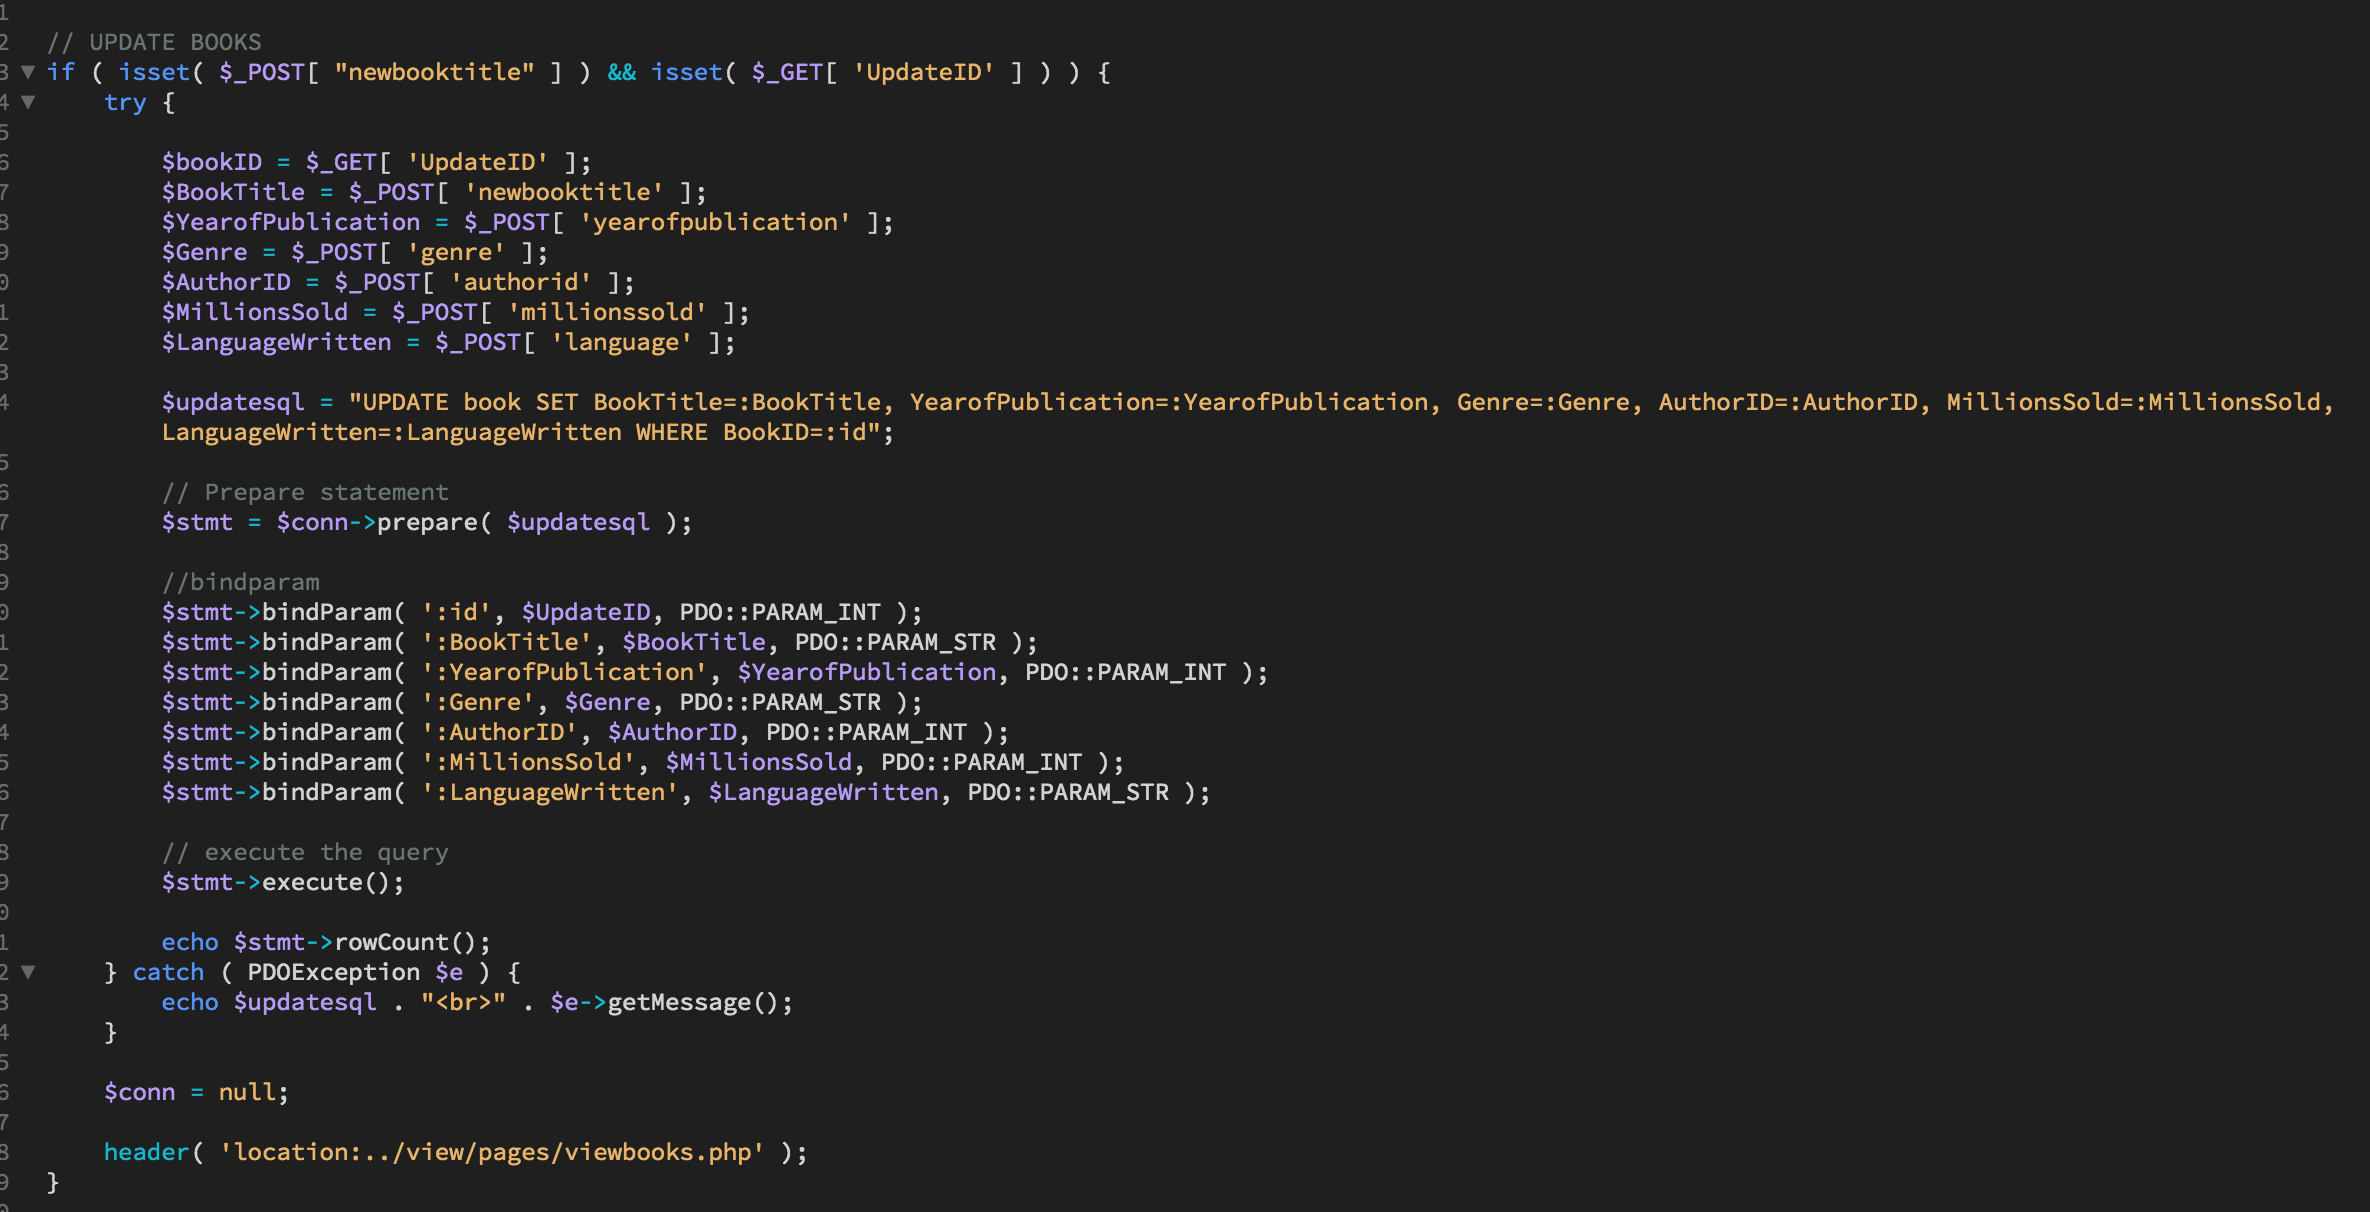
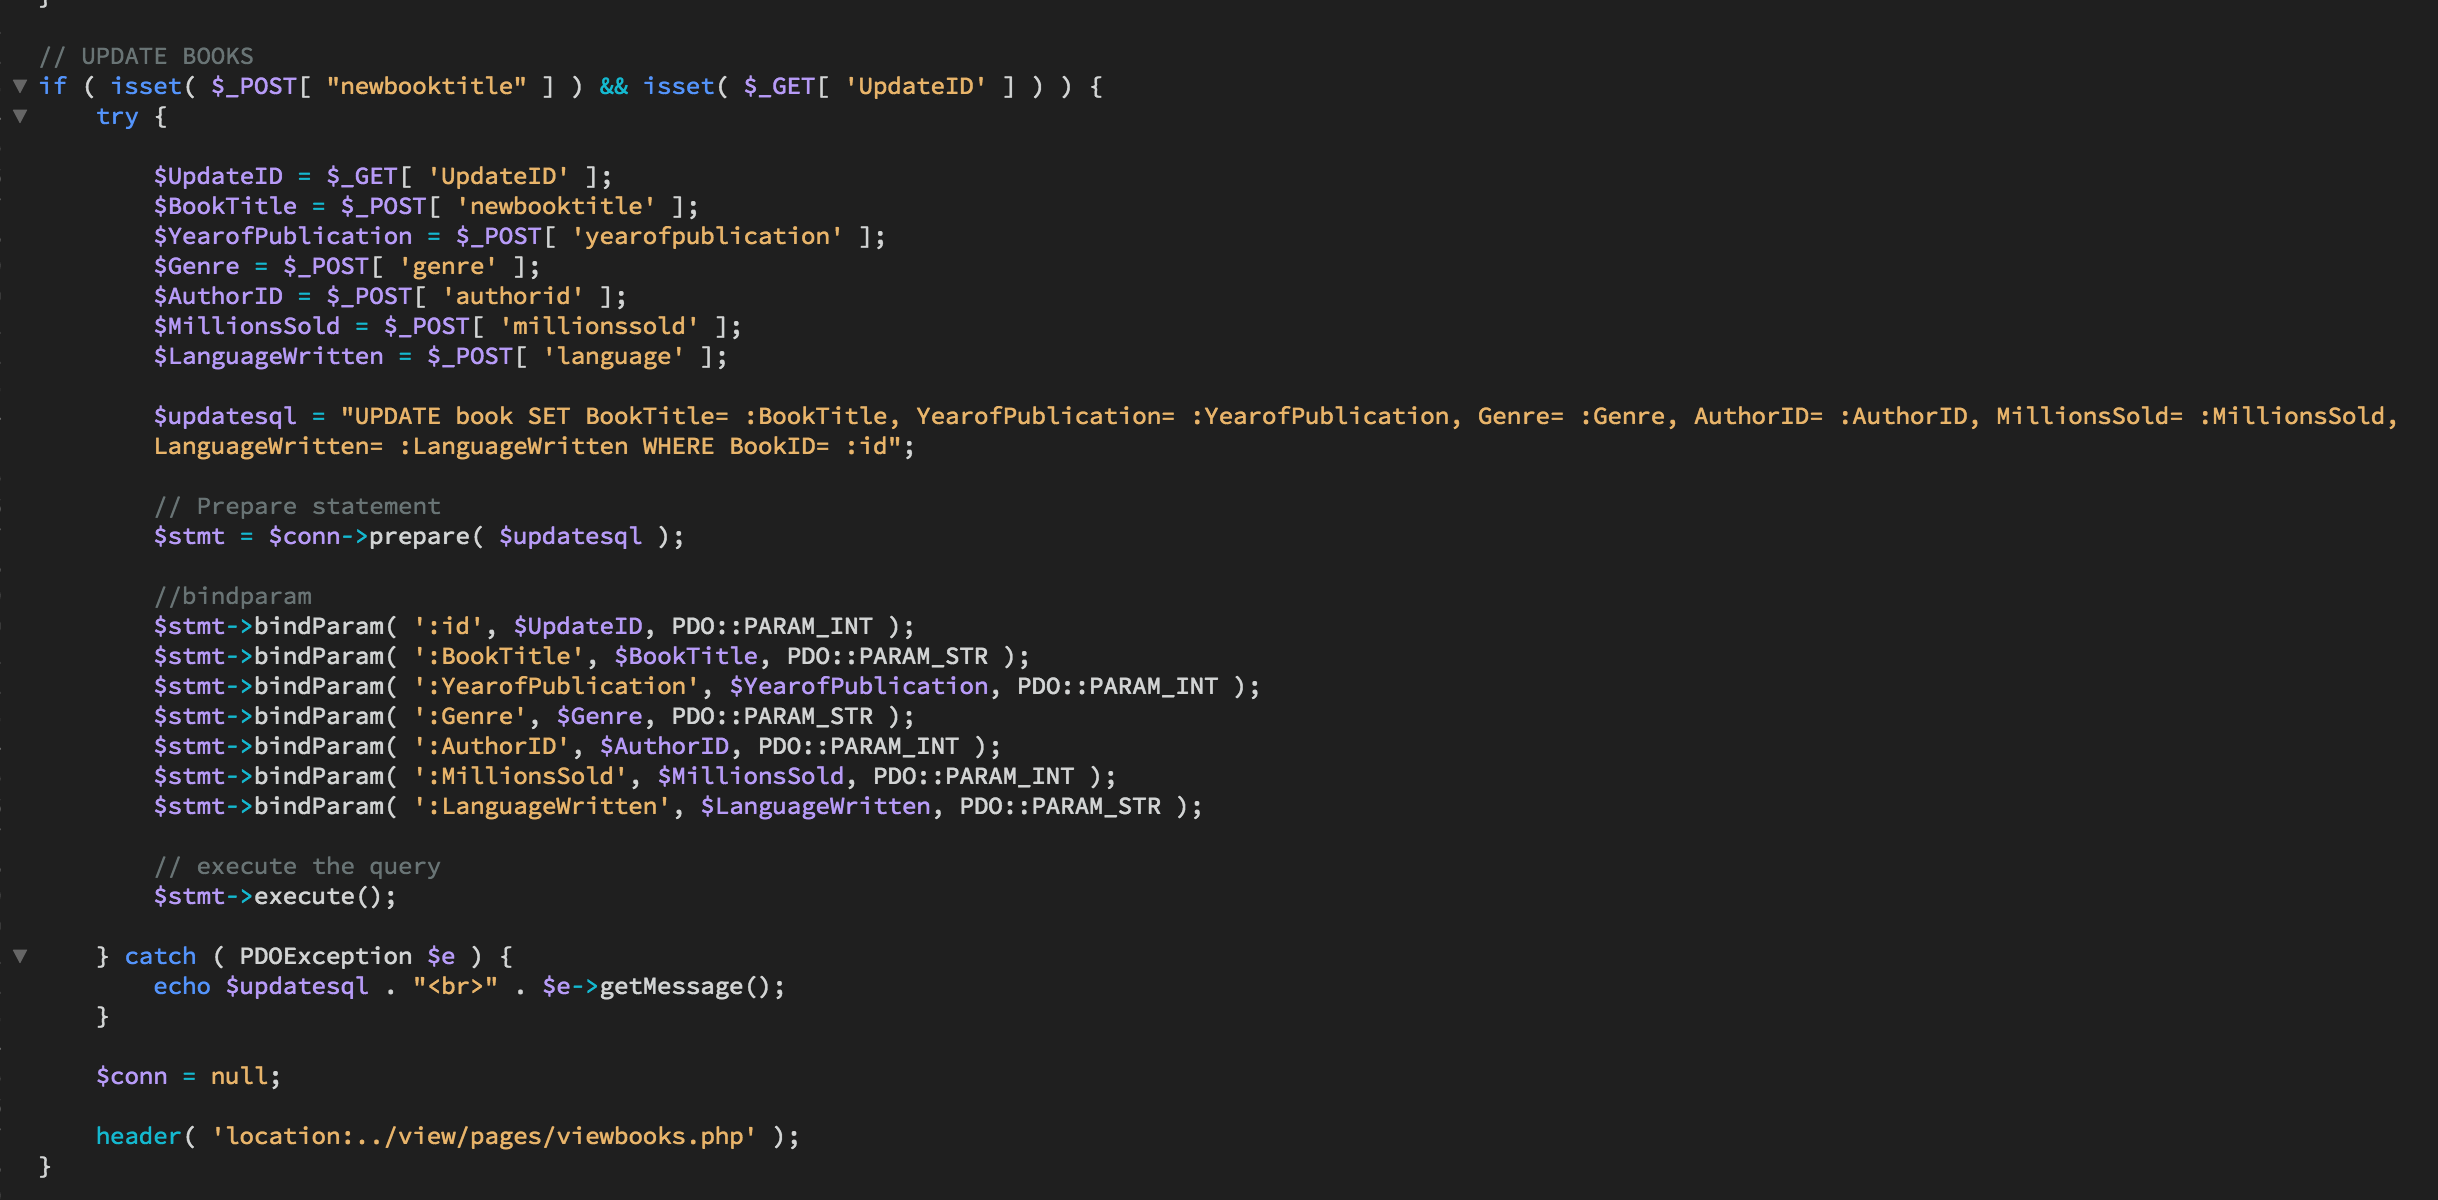
fixed update process, added bookcover images, deleted unwanted files

diff --git a/view/pages/addbooks.php b/view/pages/addbooks.php
@@ -1,39 +1,36 @@
 <?php include('navigationbar.php'); include('header.php');?>
 <!doctype html>
 <head>
-<style>
-.red{
-    color:red;
-    }
-.form-area
-{
-    background-color: #FAFAFA;
-	padding: 10px 40px 60px;
-	margin: 10px 0px 60px;
-	border: 1px solid GREY;
-	}
-  </style>
-<script> 
-	
-	$(document).ready(function(){ 
-    $('#characterLeft').text('140 characters left');
-    $('#message').keydown(function () {
-        var max = 140;
-        var len = $(this).val().length;
-        if (len >= max) {
-            $('#characterLeft').text('You have reached the limit');
-            $('#characterLeft').addClass('red');
-            $('#btnSubmit').addClass('disabled');            
-        } 
-        else {
-            var ch = max - len;
-            $('#characterLeft').text(ch + ' characters left');
-            $('#btnSubmit').removeClass('disabled');
-            $('#characterLeft').removeClass('red');            
-        }
-    });    
-});
-
+	<style>
+		.red {
+			color: red;
+		}
+		
+		.form-area {
+			background-color: #FAFAFA;
+			padding: 10px 40px 60px;
+			margin: 10px 0px 60px;
+			border: 1px solid GREY;
+		}
+	</style>
+	<script>
+		$( document ).ready( function () {
+			$( '#characterLeft' ).text( '140 characters left' );
+			$( '#message' ).keydown( function () {
+				var max = 140;
+				var len = $( this ).val().length;
+				if ( len >= max ) {
+					$( '#characterLeft' ).text( 'You have reached the limit' );
+					$( '#characterLeft' ).addClass( 'red' );
+					$( '#btnSubmit' ).addClass( 'disabled' );
+				} else {
+					var ch = max - len;
+					$( '#characterLeft' ).text( ch + ' characters left' );
+					$( '#btnSubmit' ).removeClass( 'disabled' );
+					$( '#characterLeft' ).removeClass( 'red' );
+				}
+			} );
+		} );
 	</script>
 </head>
 <body>
@@ -43,54 +40,52 @@
 			<p>Add New Books.</p>
 		</div>
 	</div>
-<div class="container1" align="center"; width="20%;">  
-        <form role="form" width="50%;" action="../../control/managebooks_process.php" method="post">
-        <br style="clear:both">
-                    <h3 style="margin-bottom: 25px; text-align: center;">Add book details.</h3>
-    				<div class="form-group">
-						<input type="text" class="form-control" id="bookTitle" name="booktitle" placeholder="Book Title" required>
-					</div>
-					<div class="form-group">
-					<div class="form-group">
-						<input type="text" class="form-control" id="language" name="language" placeholder="Language" required>
-						</div>			<input type="text" class="form-control" id="originalTitle" name="originaltitle" placeholder="Original Title" required>
-					</div>
-								<div class="form-group">
-						<input type="text" class="form-control" id="authorid" name="authorid" placeholder="AuthorID" required>
-					</div>
-					<div class="form-group">
-						<input type="text" class="form-control" id="genre" name="genre" placeholder="Genre" required>
-					</div>
-					<div class="form-group">
-						<input type="text" class="form-control" id="yearOfpublication" name="yearofpublication" placeholder="Year Of Publication" required>
-					</div>
-					<div class="form-group">
-						<input type="text" class="form-control" id="language" name="language" placeholder="Language" required>
-					</div>
-					<div class="form-group">
-						<input type="text" class="form-control" id="millionsold" name="millionssold" placeholder="Millions Sold" required>
-					</div>
-			<!--<div class="form-group">
-			<div class="text-center">
-					<img src="<?php echo $image ?>" class="avatar img-thumbnail" alt="avatar">
+	<div class="container1" align="center" ; width="20%;">
+		<form role="form" width="50%;" action="../../control/managebooks_process.php" method="post">
+			<br style="clear:both">
+			<h3 style="margin-bottom: 25px; text-align: center;">Add book details.</h3>
+			<div class="form-group">
+				<input type="text" class="form-control" id="bookTitle" name="booktitle" placeholder="Book Title" required>
+			</div>
+			<div class="form-group">
+				<div class="form-group">
+					<input type="text" class="form-control" id="language" name="language" placeholder="Language" required>
+				</div> <input type="text" class="form-control" id="originalTitle" name="originaltitle" placeholder="Original Title" required>
+			</div>
+			<div class="form-group">
+				<input type="text" class="form-control" id="authorid" name="authorid" placeholder="AuthorID" required>
+			</div>
+			<div class="form-group">
+				<input type="text" class="form-control" id="genre" name="genre" placeholder="Genre" required>
+			</div>
+			<div class="form-group">
+				<input type="text" class="form-control" id="yearOfpublication" name="yearofpublication" placeholder="Year Of Publication" required>
+			</div>
+			<div class="form-group">
+				<input type="text" class="form-control" id="language" name="language" placeholder="Language" required>
+			</div>
+			<div class="form-group">
+				<input type="text" class="form-control" id="millionsold" name="millionssold" placeholder="Millions Sold" required>
+			</div>
+			<div class="form-group">
+				<div class="text-center">
+					<img src="<?php echo $image ?>" class="avatar img-thumbnail" alt="cover">
 					<h6>Upload a photo...</h6>
-					<form id="imageInput" change="displayImageError()" action="../../control/upload_file.php" method="POST" enctype="multipart/form-data">
+					
 						<input type="file" name="image" id="fileToUpload" size="50" class="text-center center-block well well-sm">
 
-						<button type="submit" class="btn btn-primary" id="imageSubmitButton">Submit Image</button>
-		<div class="form-group					</form>
-					<div id="imageAlert" class="alert alert-danger" style="display: none;"></div>
-				</div>-->
+					<div id=" imageAlert " class="alert alert-danger " style="display: none; "></div>
+				</div>
 			<div class="form-group">
-        <input type="submit" id="submit" name="submit" class="btn btn-primary">
+        <input type="submit" id="submit" name="submit" class="btn btn-primary ">
+				</div>
         </form>
-    </div>
+    
 </div>
 </div>
-<footer class="container-fluid text-center">
+<footer class="container-fluid text-center ">
 <?php include('footer.php');?>
 </footer>
 
 </body>
 </html>
-

diff --git a/view/pages/updatebooks.php b/view/pages/updatebooks.php
@@ -1,12 +1,13 @@
-<?php include('navigationbar.php');
+<?php
+include( 'navigationbar.php' );
 
-include('../../model/dbconnection.php');
+include( '../../model/dbconnection.php' );
 
 $selectsql = "SELECT * FROM book WHERE BookID = :id";
 
-$stmt = $conn->prepare($selectsql);
+$stmt = $conn->prepare( $selectsql );
 
-$stmt->bindParam(':id', $_GET['UpdateID'], PDO::PARAM_INT);
+$stmt->bindParam( ':id', $_GET[ 'UpdateID' ], PDO::PARAM_INT );
 
 $stmt->execute();
 
@@ -42,34 +43,38 @@ $row = $stmt->fetch();
         <span><strong>Go Back</strong></span>            
     </a>
 
+
 	<div class="container1" align="center" ; width="20%;">
-		<form role="form" width="50%;" method="post" action="../../control/managebooks_process.php?UpdateID=<?php echo $row['BookID']; ?>">
+		<!--<form role="form" width="50%;" method="post" action="../../control/managebooks_process.php?UpdateID=<?php //echo $row['BookID']; ?>">-->
+
+
+		<form role="form" width="50%" method="post" action="../../control/managebooks_process.php?UpdateID=<?php echo $_GET['UpdateID']; ?>">
 			<br style="clear:both">
 			<h3 style="margin-bottom: 25px; text-align: center;">Update book details.</h3>
 			<div class="form-group">
-				<input type="text" class="form-control" id="bookTitle" name="newbooktitle" placeholder="Book Title" value= "<?php echo $row['BookTitle']; ?>" required>
+				<input type="text" class="form-control" id="bookTitle" name="newbooktitle" placeholder="Book Title" value="<?php echo $row['BookTitle']; ?>" required>
 			</div>
 			<div class="form-group">
-				<input type="text" class="form-control" id="authorid" name="authorid" placeholder="AuthorID" value= "<?php echo $row['AuthorID']; ?>" required>
+				<input type="text" class="form-control" id="authorid" name="authorid" placeholder="AuthorID" value="<?php echo $row['AuthorID']; ?>" required>
 			</div>
 			<div class="form-group">
-				<input type="text" class="form-control" id="genre" name="genre" placeholder="Genre" value= "<?php echo $row['Genre']; ?>" required>
+				<input type="text" class="form-control" id="genre" name="genre" placeholder="Genre" value="<?php echo $row['Genre']; ?>" required>
 			</div>
 			<div class="form-group">
-				<input type="text" class="form-control" id="yearOfpublication" name="yearofpublication" placeholder="Year Of Publication" value= "<?php echo $row['YearofPublication']; ?>"  required>
+				<input type="text" class="form-control" id="yearOfpublication" name="yearofpublication" placeholder="Year Of Publication" value="<?php echo $row['YearofPublication']; ?>" required>
 			</div>
 			<div class="form-group">
-				<input type="text" class="form-control" id="language" name="language" placeholder="Language" value= "<?php echo $row['LanguageWritten']; ?>" required>
+				<input type="text" class="form-control" id="language" name="language" placeholder="Language" value="<?php echo $row['LanguageWritten']; ?>" required>
 			</div>
 			<div class="form-group">
-				<input type="text" class="form-control" id="millionsold" name="millionssold" placeholder="Millions Sold" value= "<?php echo $row['MillionsSold']; ?>" required>
+				<input type="text" class="form-control" id="millionsold" name="millionssold" placeholder="Millions Sold" value="<?php echo $row['MillionsSold']; ?>" required>
 			</div>
 			<div class="form-group">
 
 				<input type="submit" id="submit" name="submit" class="btn btn-primary">
 			</div>
 		</form>
-		</div>
+	</div>
 	</div>
 	</div>
 	<footer class="container-fluid text-center">

diff --git a/control/updateprocess.php b/control/updateprocess.php
@@ -1,0 +1,68 @@
+<?php
+// UPDATE BOOKS
+include('../model/dbconnection.php');
+
+if ( isset( $_POST[ "newbooktitle" ] ) && isset( $_GET[ 'UpdateID' ] ) ) {
+	try {
+
+		$bookID = $_GET[ 'UpdateID' ];
+		$BookTitle = $_POST[ 'newbooktitle' ];
+		$YearofPublication = $_POST[ 'yearofpublication' ];
+		$Genre = $_POST[ 'genre' ];
+		$AuthorID = $_POST[ 'authorid' ];
+		$MillionsSold = $_POST[ 'millionssold' ];
+		$LanguageWritten = $_POST[ 'language' ];
+
+		$updatesql = "UPDATE book SET BookTitle=:BookTitle, YearofPublication=:YearofPublication, Genre=:Genre, AuthorID=:AuthorID, MillionsSold=:MillionsSold, LanguageWritten=:LanguageWritten WHERE BookID=:id";
+
+		// Prepare statement
+		$stmt = $conn->prepare( $updatesql );
+
+		//bindparam
+		$stmt->bindParam( ':id', $UpdateID, PDO::PARAM_INT );
+		$stmt->bindParam( ':BookTitle', $BookTitle, PDO::PARAM_STR );
+		$stmt->bindParam( ':YearofPublication', $YearofPublication, PDO::PARAM_INT );
+		$stmt->bindParam( ':Genre', $Genre, PDO::PARAM_STR );
+		$stmt->bindParam( ':AuthorID', $AuthorID, PDO::PARAM_INT );
+		$stmt->bindParam( ':MillionsSold', $MillionsSold, PDO::PARAM_INT );
+		$stmt->bindParam( ':LanguageWritten', $LanguageWritten, PDO::PARAM_STR );
+
+		// execute the query
+		$stmt->execute();
+
+		echo $stmt->rowCount()  . "records updated successfully";
+	} catch ( PDOException $e ) {
+		echo $updatesql . "<br>" . $e->getMessage();
+	}
+
+	$conn = null;
+
+	header( 'location:../view/pages/viewbooks.php' );
+}
+
+
+?>
+
+<?php
+
+try {
+    $sql = "UPDATE MyGuests SET lastname='Doe' WHERE id=2";
+
+    // Prepare statement
+    $stmt = $conn->prepare($sql);
+
+    // execute the query
+    $stmt->execute();
+
+    // echo a message to say the UPDATE succeeded
+    echo $stmt->rowCount() . " records UPDATED successfully";
+    }
+catch(PDOException $e)
+    {
+    echo $sql . "<br>" . $e->getMessage();
+    }
+
+$conn = null;
+?>
+
+

diff --git a/control/managebooks_process.php b/control/managebooks_process.php
@@ -27,7 +27,7 @@ if ( isset( $_POST[ "booktitle" ] ) && !isset( $_POST[ 'BookID' ] ) ) {
 		$stmt->bindParam( ':LanguageWritten', $LanguageWritten, PDO::PARAM_STR );
 
 
-		$stmt->execute();
+		$stmt->execute() ;
 
 		//echo "New record created successfully";
 	} catch ( PDOException $e ) {
@@ -43,7 +43,7 @@ if ( isset( $_POST[ "booktitle" ] ) && !isset( $_POST[ 'BookID' ] ) ) {
 if ( isset( $_POST[ "newbooktitle" ] ) && isset( $_GET[ 'UpdateID' ] ) ) {
 	try {
 
-		$bookID = $_GET[ 'UpdateID' ];
+		$UpdateID = $_GET[ 'UpdateID' ];
 		$BookTitle = $_POST[ 'newbooktitle' ];
 		$YearofPublication = $_POST[ 'yearofpublication' ];
 		$Genre = $_POST[ 'genre' ];
@@ -51,7 +51,7 @@ if ( isset( $_POST[ "newbooktitle" ] ) && isset( $_GET[ 'UpdateID' ] ) ) {
 		$MillionsSold = $_POST[ 'millionssold' ];
 		$LanguageWritten = $_POST[ 'language' ];
 
-		$updatesql = "UPDATE book SET BookTitle=:BookTitle, YearofPublication=:YearofPublication, Genre=:Genre, AuthorID=:AuthorID, MillionsSold=:MillionsSold, LanguageWritten=:LanguageWritten WHERE BookID=:id";
+		$updatesql = "UPDATE book SET BookTitle= :BookTitle, YearofPublication= :YearofPublication, Genre= :Genre, AuthorID= :AuthorID, MillionsSold= :MillionsSold, LanguageWritten= :LanguageWritten WHERE BookID= :id";
 
 		// Prepare statement
 		$stmt = $conn->prepare( $updatesql );
@@ -67,8 +67,7 @@ if ( isset( $_POST[ "newbooktitle" ] ) && isset( $_GET[ 'UpdateID' ] ) ) {
 
 		// execute the query
 		$stmt->execute();
-
-		echo $stmt->rowCount();
+		
 	} catch ( PDOException $e ) {
 		echo $updatesql . "<br>" . $e->getMessage();
 	}

diff --git a/control/bookcover_upload.php b/control/bookcover_upload.php
@@ -1,0 +1,44 @@
+<?php
+$target_dir = "uploads/";
+$target_file = $target_dir . basename($_FILES["fileToUpload"]["name"]);
+$uploadOk = 1;
+$imageFileType = strtolower(pathinfo($target_file,PATHINFO_EXTENSION));
+// Check if image file is a actual image or fake image
+if(isset($_POST["submit"])) {
+    $check = getimagesize($_FILES["fileToUpload"]["tmp_name"]);
+    if($check !== false) {
+        echo "File is an image - " . $check["mime"] . ".";
+        $uploadOk = 1;
+    } else {
+        echo "File is not an image.";
+        $uploadOk = 0;
+    }
+}
+// Check if file already exists
+if (file_exists($target_file)) {
+    echo "Sorry, file already exists.";
+    $uploadOk = 0;
+}
+// Check file size
+if ($_FILES["fileToUpload"]["size"] > 500000) {
+    echo "Sorry, your file is too large.";
+    $uploadOk = 0;
+}
+// Allow certain file formats
+if($imageFileType != "jpg" && $imageFileType != "png" && $imageFileType != "jpeg"
+&& $imageFileType != "gif" ) {
+    echo "Sorry, only JPG, JPEG, PNG & GIF files are allowed.";
+    $uploadOk = 0;
+}
+// Check if $uploadOk is set to 0 by an error
+if ($uploadOk == 0) {
+    echo "Sorry, your file was not uploaded.";
+// if everything is ok, try to upload file
+} else {
+    if (move_uploaded_file($_FILES["fileToUpload"]["tmp_name"], $target_file)) {
+        echo "The file ". basename( $_FILES["fileToUpload"]["name"]). " has been uploaded.";
+    } else {
+        echo "Sorry, there was an error uploading your file.";
+    }
+}
+?>

diff --git a/model/dbconnection.php b/model/dbconnection.php
@@ -1,8 +1,8 @@
 <?php
 $servername = "localhost";
 $username = "root";
-//$password = "root"; // Use this for Mac (MAMP)
-$password=""; // Use this for Windows (XAMPP)
+$password = "root"; // Use this for Mac (MAMP)
+//$password=""; // Use this for Windows (XAMPP)
 
 try {
     $conn = new PDO("mysql:host=$servername;dbname=mybooks", $username, $password);
